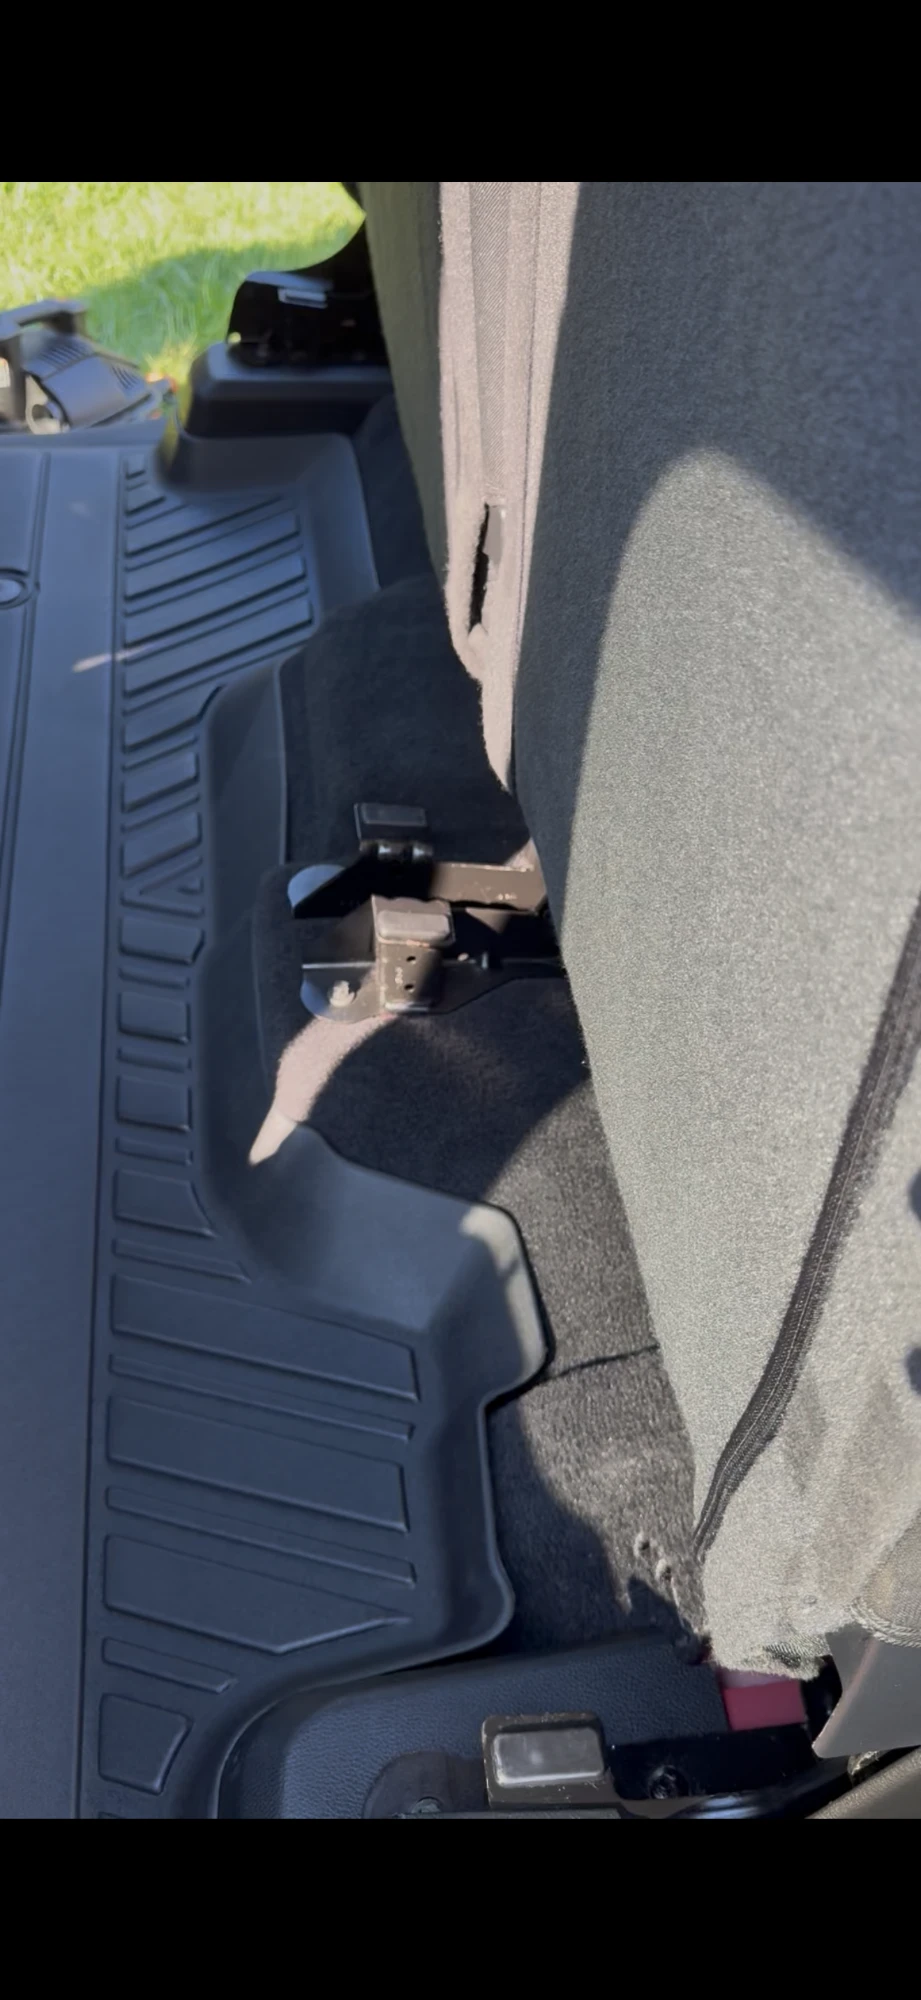
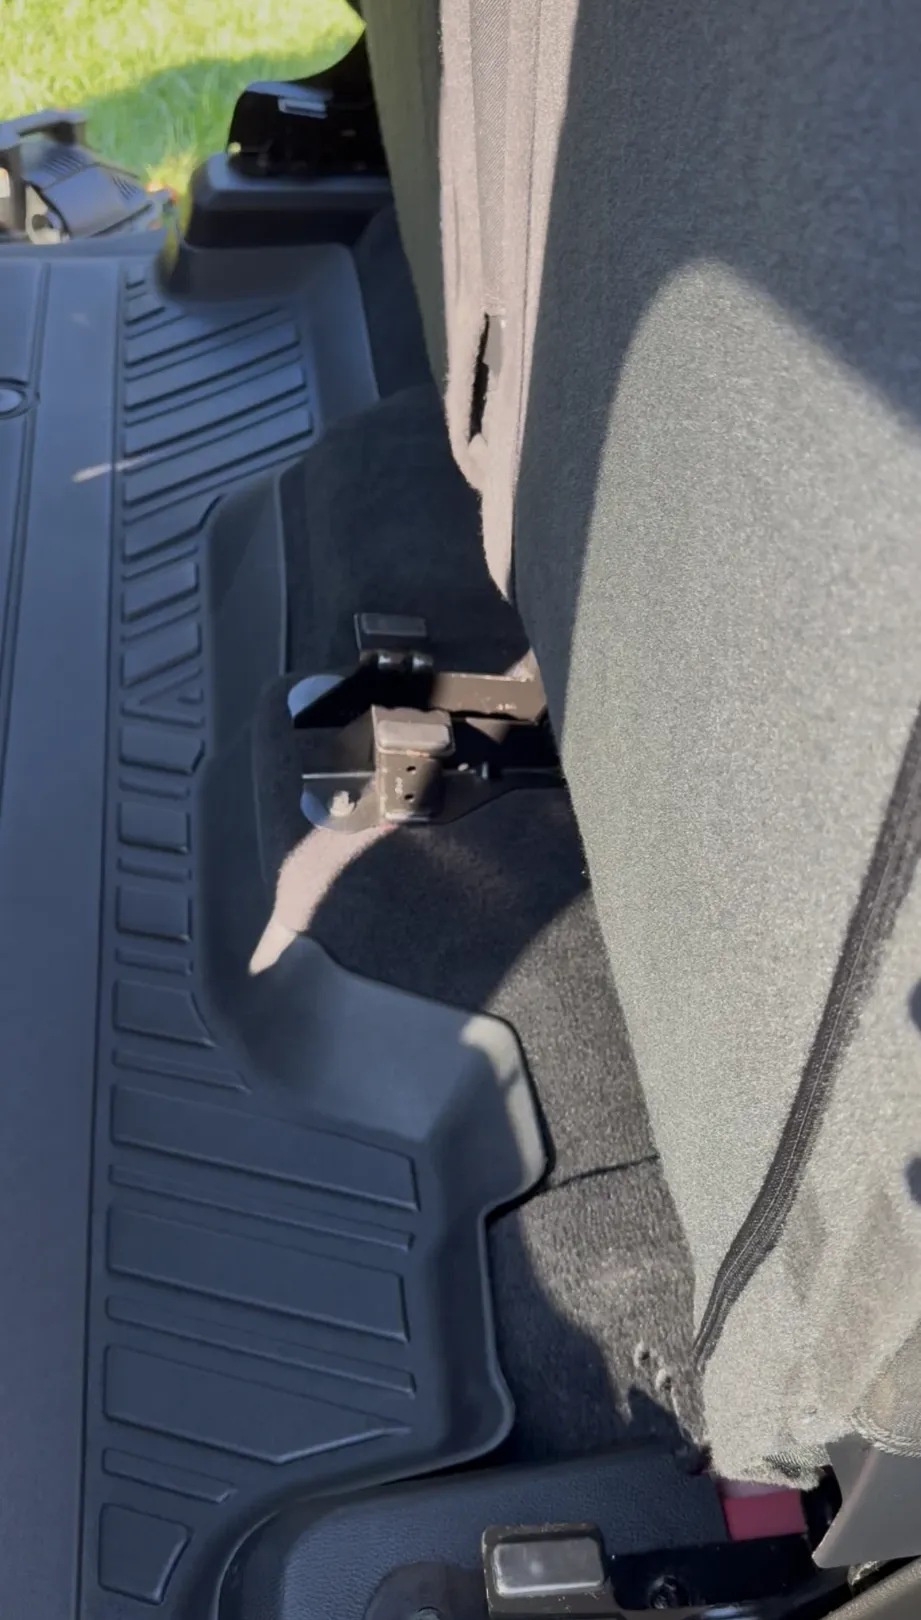
Crop black letterbox bars from photos, add pan-while-zoomed
Three real gallery photos (before-1, before-2, after-2) had actual
black bars baked into the raw pixels (~9.5% top and bottom, from the
phone camera app) that were invisible in the small cropped thumbnail
but showed up in the full-size lightbox view. Cropped them out
directly with Pillow.

Also reworked the desktop click-to-zoom to use real pixel width/
height instead of a CSS transform, so the enlarged image now
contributes to the lightbox's scrollable area — you can scroll/pan
around a zoomed photo instead of just seeing a fixed crop. The zoom
click centers on wherever you clicked. Close/arrow buttons stay
fixed on screen regardless of scroll position.

diff --git a/script.js b/script.js
@@ -199,12 +199,19 @@ let lightboxIndex = 0;
 // matching .lightbox-img.is-portrait rule in style.css.
 const LIGHTBOX_PORTRAIT_RATIO = 0.7;
 
+function resetLightboxZoom() {
+  lightboxImg.classList.remove('zoomed');
+  lightbox.classList.remove('zoom-active');
+  lightboxImg.style.width = '';
+  lightboxImg.style.height = '';
+}
+
 function showLightboxPhoto() {
   const photo = lightboxPhotos[lightboxIndex];
   lightboxImg.src = photo.src;
   lightboxImg.alt = photo.alt;
   lightboxImg.classList.toggle('is-portrait', photo.ratio < LIGHTBOX_PORTRAIT_RATIO);
-  lightboxImg.classList.remove('zoomed');
+  resetLightboxZoom();
 }
 
 function openLightbox(photos, index) {
@@ -223,6 +230,7 @@ function closeLightbox() {
   lightbox.classList.remove('open');
   lightbox.setAttribute('aria-hidden', 'true');
   document.body.style.overflow = '';
+  resetLightboxZoom();
 }
 
 function stepLightbox(delta) {
@@ -254,11 +262,30 @@ lightbox.addEventListener('click', (e) => {
   if (e.target === lightbox) closeLightbox();
 });
 // Click-to-zoom, desktop only — a tap on touch is just how you view the
-// photo there, not a zoom request, so this stays out of its way.
+// photo there, not a zoom request, so this stays out of its way. Zooming
+// sets an explicit pixel width/height (rather than a transform) so the
+// enlarged image actually contributes to the lightbox's scrollable area,
+// and the scroll position is centered on wherever the visitor clicked so
+// they land on the detail they zoomed in on, then can scroll to pan.
+const LIGHTBOX_ZOOM_SCALE = 1.8;
 const isDesktopPointer = window.matchMedia('(hover: hover) and (pointer: fine)').matches;
 if (isDesktopPointer) {
-  lightboxImg.addEventListener('click', () => {
-    lightboxImg.classList.toggle('zoomed');
+  lightboxImg.addEventListener('click', (e) => {
+    if (lightboxImg.classList.contains('zoomed')) {
+      resetLightboxZoom();
+      return;
+    }
+    const rect = lightboxImg.getBoundingClientRect();
+    const fracX = (e.clientX - rect.left) / rect.width;
+    const fracY = (e.clientY - rect.top) / rect.height;
+    const newWidth = rect.width * LIGHTBOX_ZOOM_SCALE;
+    const newHeight = rect.height * LIGHTBOX_ZOOM_SCALE;
+    lightboxImg.classList.add('zoomed');
+    lightbox.classList.add('zoom-active');
+    lightboxImg.style.width = newWidth + 'px';
+    lightboxImg.style.height = newHeight + 'px';
+    lightbox.scrollLeft = fracX * newWidth - lightbox.clientWidth / 2;
+    lightbox.scrollTop = fracY * newHeight - lightbox.clientHeight / 2;
   });
 }
 document.addEventListener('keydown', (e) => {

diff --git a/style.css b/style.css
@@ -980,12 +980,19 @@ span.flatpickr-weekday {
   background: rgba(6,6,8,0.92);
 }
 .lightbox.open { display: flex; }
+/* Zoomed state scrolls/pans instead of centering — see the JS, which
+   sets explicit pixel width/height (not transform) so the enlarged
+   image actually contributes to the container's scrollable area. */
+.lightbox.zoom-active {
+  align-items: flex-start;
+  justify-content: flex-start;
+  overflow: auto;
+}
 .lightbox-img {
   max-width: 88vw;
   max-height: 84vh;
   border-radius: 12px;
   box-shadow: 0 24px 60px rgba(0,0,0,0.55);
-  transition: transform 0.25s ease;
 }
 /* Tall phone-shot photos (before/after gallery, roughly 9:16) are
    width-limited by max-width long before they hit max-height, so they
@@ -995,12 +1002,17 @@ span.flatpickr-weekday {
   max-width: 96vw;
   max-height: 94vh;
 }
+.lightbox-img.zoomed {
+  max-width: none;
+  max-height: none;
+  border-radius: 0;
+}
 /* Click-to-zoom — desktop (fine pointer + real hover) only. Touch
    devices don't get the zoom cursor or the toggle, since a tap there
    is just how you'd view the photo, not a request to zoom. */
 @media (hover: hover) and (pointer: fine) {
   .lightbox-img { cursor: zoom-in; }
-  .lightbox-img.zoomed { cursor: zoom-out; transform: scale(1.8); }
+  .lightbox-img.zoomed { cursor: zoom-out; }
 }
 .lightbox-close,
 .lightbox-arrow {

diff --git a/index.html b/index.html
@@ -8,7 +8,7 @@
 <link rel="preconnect" href="https://fonts.gstatic.com" crossorigin>
 <link href="https://fonts.googleapis.com/css2?family=Bungee&family=Poppins:wght@400;500;600;700&display=swap" rel="stylesheet">
 <link rel="stylesheet" href="https://cdnjs.cloudflare.com/ajax/libs/flatpickr/4.6.13/flatpickr.min.css">
-<link rel="stylesheet" href="style.css?v=38">
+<link rel="stylesheet" href="style.css?v=39">
 </head>
 <body>
 
@@ -483,6 +483,6 @@
 </div>
 
 <script src="https://cdnjs.cloudflare.com/ajax/libs/flatpickr/4.6.13/flatpickr.min.js"></script>
-<script src="script.js?v=19"></script>
+<script src="script.js?v=20"></script>
 </body>
 </html>

diff --git a/TODO.md b/TODO.md
@@ -10,7 +10,7 @@ Owner: Silas Zeidler · Danville, VA · 434-489-1525
 - [x] Real About section content — *received 2026-09-14, live on site*
 - [x] Real FAQ questions & answers — *received 2026-09-14, 8 Q&As live on site*
 - [ ] Real photos — hero shot, 5 customer-photo strip images, 8 before/after gallery slots — *once these go in, also add an infinite conveyor-belt/marquee animation to the photo strip (currently a static 5-slot grid, no motion). Requested 2026-09-17, deferred until real photos are ready. 2026-09-18: first two real pairs landed — interior before/afters (dirty floor mat → cleaned interior; dog hair on seat/carpet → cleaned trunk area) are live in the first two Before & After gallery slots (`assets/gallery/before-1.webp`/`after-1.jpg`, `before-2.webp`/`after-2.webp`). Added `.has-photo` CSS so a slot with a real image drops the "coming soon" camera-icon treatment and overlays the Before/After pill on the photo itself. Also added 2 real exterior shots (Subaru front, GMC Sierra side) to the first 2 photo-strip slots (`strip-1.jpg`, `strip-2.jpg`). 5 of 8 gallery slots, the hero shot, and 3 of 5 strip slots are still placeholders.*
-- [x] Photo lightbox — *2026-09-18: clicking any real photo-strip photo now opens a full-screen lightbox (dark backdrop, image centered) with a close X (top right), left/right arrows to cycle through every real strip photo, click-anywhere-outside to close, and Escape/arrow-key support. Placeholder slots aren't clickable. Extended the same day to the Before & After gallery photos too — each gallery pair's photos are their own cycling group, separate from the photo strip's, so a gallery click never jumps into an unrelated strip photo. Also bumped the display size specifically for tall ~9:16 phone-shot photos (the letterboxed before/after gallery shots) — they were width-capped well before hitting the height limit, so they rendered small with empty space above/below; those now get a larger max-width/max-height so they fill the screen properly on both desktop and mobile, while the more standard-ratio photos (strip shots, the wider "after" gallery shot) keep their existing sizing. Added desktop-only click-to-zoom on the lightbox image itself (scales up 1.8x on click, click again to return to normal) — scoped to devices with a real mouse via a `(hover: hover) and (pointer: fine)` check in both CSS and JS, so a tap on mobile/tablet does nothing (no accidental zoom or misfire).*
+- [x] Photo lightbox — *2026-09-18: clicking any real photo-strip photo now opens a full-screen lightbox (dark backdrop, image centered) with a close X (top right), left/right arrows to cycle through every real strip photo, click-anywhere-outside to close, and Escape/arrow-key support. Placeholder slots aren't clickable. Extended the same day to the Before & After gallery photos too — each gallery pair's photos are their own cycling group, separate from the photo strip's, so a gallery click never jumps into an unrelated strip photo. Also bumped the display size specifically for tall ~9:16 phone-shot photos (the letterboxed before/after gallery shots) — they were width-capped well before hitting the height limit, so they rendered small with empty space above/below; those now get a larger max-width/max-height so they fill the screen properly on both desktop and mobile, while the more standard-ratio photos (strip shots, the wider "after" gallery shot) keep their existing sizing. Added desktop-only click-to-zoom on the lightbox image itself (scales up 1.8x on click, centered on wherever you clicked, click again to return to normal) — scoped to devices with a real mouse via a `(hover: hover) and (pointer: fine)` check in both CSS and JS, so a tap on mobile/tablet does nothing (no accidental zoom or misfire). While zoomed, the image scrolls/pans (mouse wheel or trackpad) instead of just sitting there cropped — implemented with real pixel width/height rather than a CSS transform so it actually contributes to the scrollable area; the close/arrow buttons stay fixed on screen regardless of scroll position. Also discovered and fixed actual black letterbox bars baked into the raw pixels of 3 of the real gallery photos (`before-1.webp`, `before-2.webp`, `after-2.webp` — Silas's phone camera app added ~9.5% black bars top and bottom); cropped them out directly with Pillow so the full-size lightbox view no longer shows any black borders around those photos.*
 - [ ] Real videos — for the photo strip / social content, format and length TBD
 - [x] Finalized detailed pricing per tier — *received 2026-09-17: real per-vehicle-size pricing (Small/Sedan, Midsize SUV/Crossover, Large SUV/Truck, Oversized) for all 3 packages, plus real "what's included" copy. Live on the pricing cards, replacing the old single "starting at" placeholder price.*
 - [x] Full add-on list + pricing — *received 2026-09-17 (Wax/Sealant+Clay Mitt $50, Dog Hair Removal $60/$80 severe, Seat Shampoo $25/seat, Headliner Cleaning $30, Odor/Smoke Treatment $50, Biohazard Surcharge $75+). Decided 2026-09-17: add-ons will NOT be surfaced on the website — not added to the site or the Jobber booking form, kept off both per Silas.*
